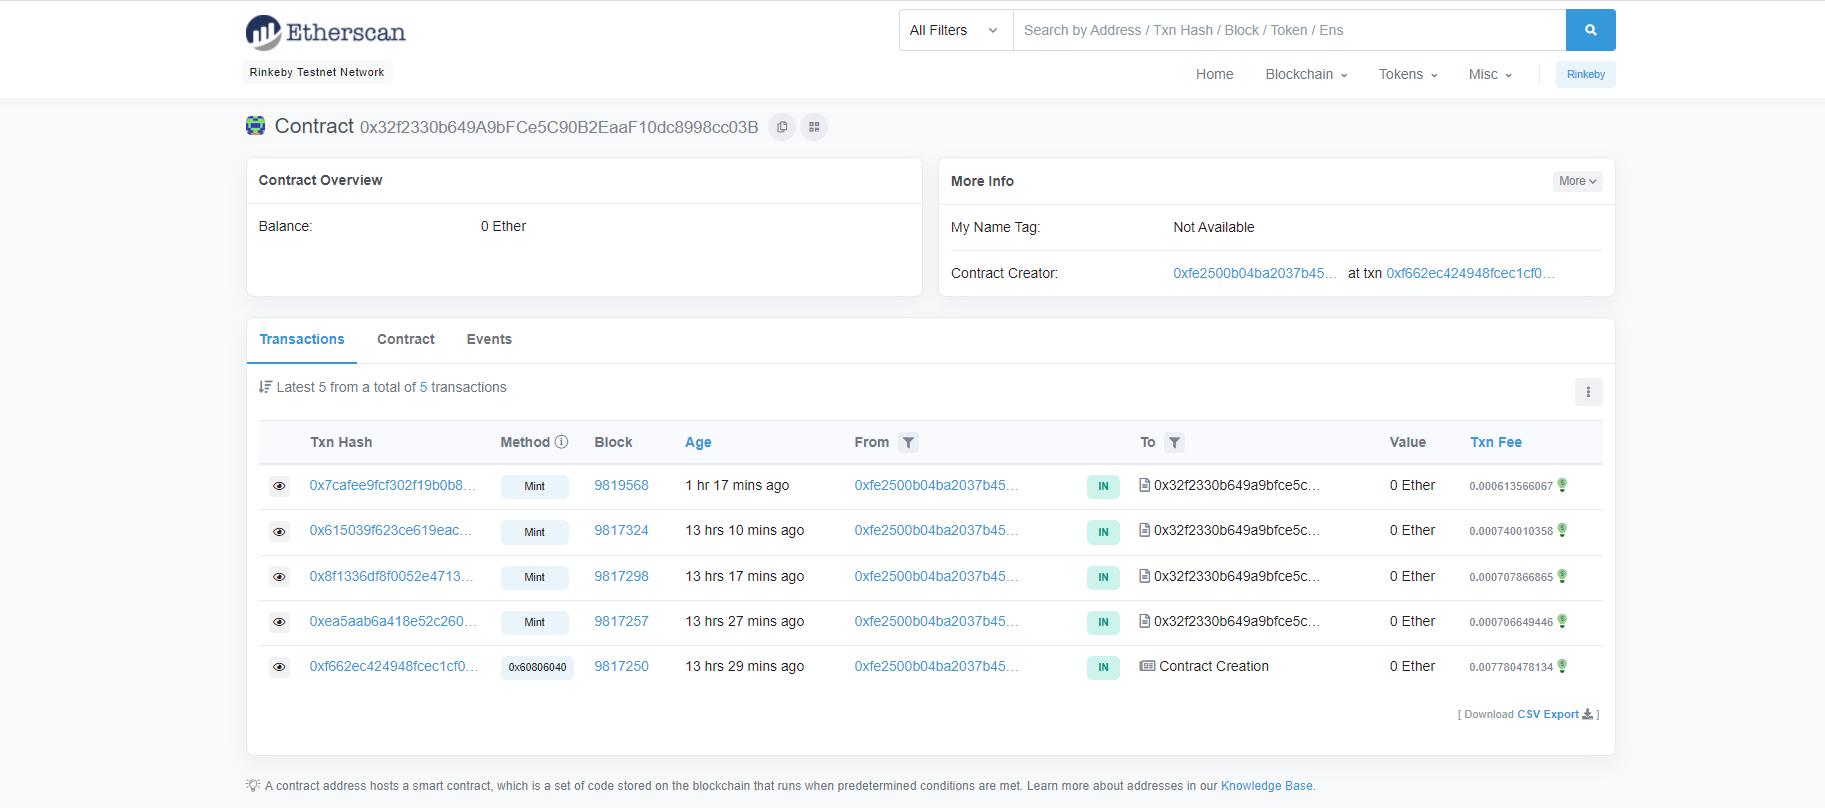
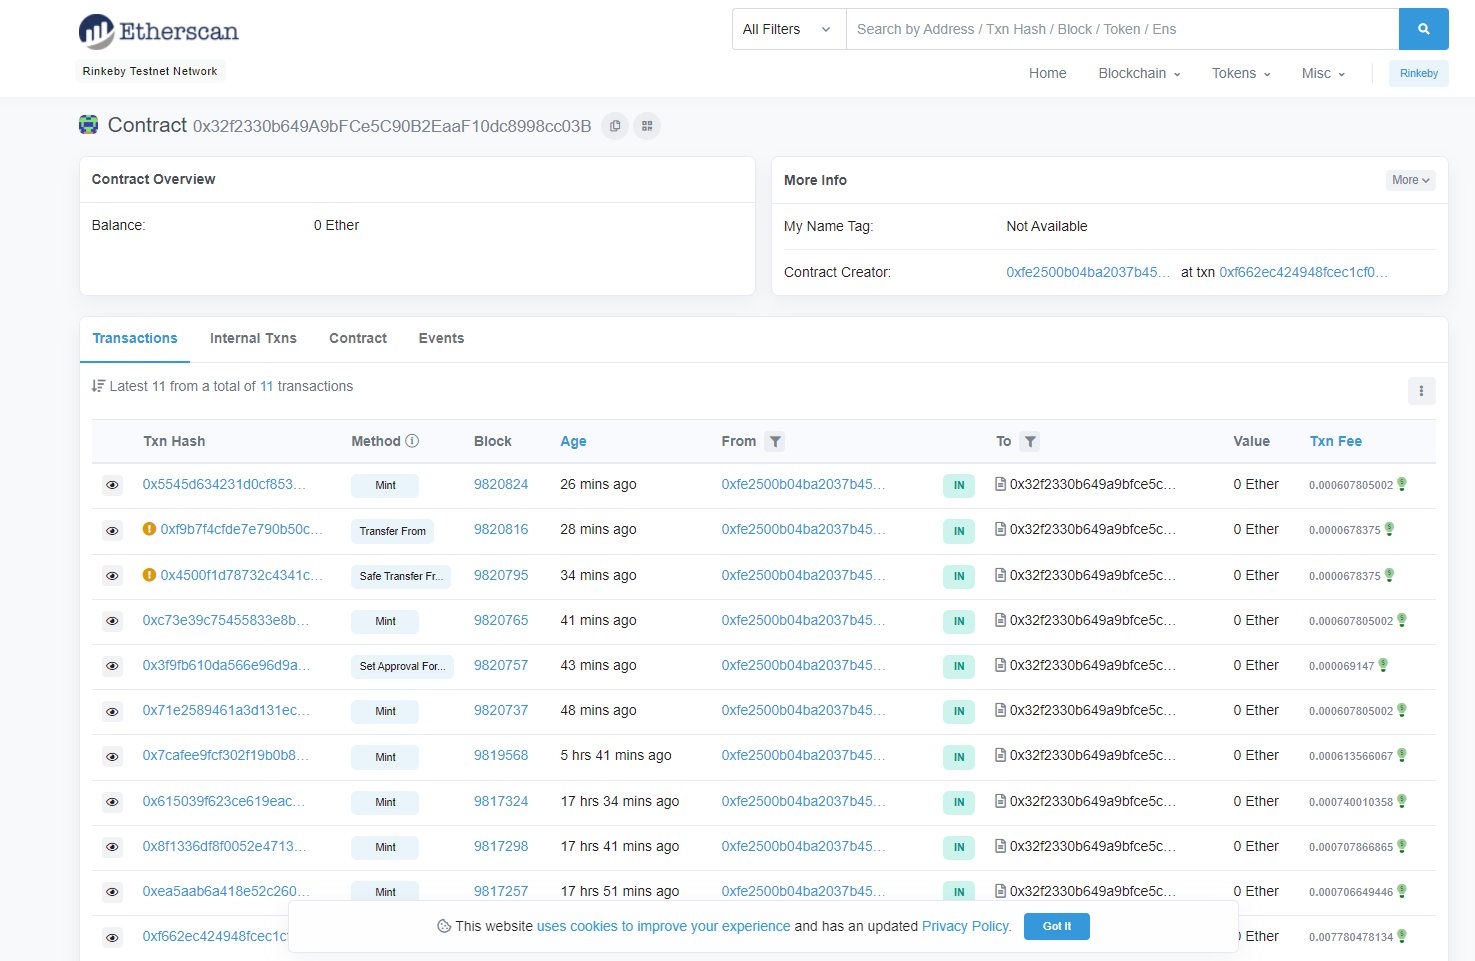
Updated the ReadMe. Added new images; updated the package.json

diff --git a/README.md b/README.md
@@ -153,7 +153,7 @@ Under the Mint function option, enter the your account address and a token id (f
 
 ![remix](images/Remix_4.PNG)
 
-Here is what it looks like in Etherscan. You can see that 4 tokens have been minted:
+Here is what it looks like in Etherscan. You can see that more than 5 tokens have been minted (under multiple owners):
 
 ![etherscan](images/Etherscan_2.PNG)
 
@@ -169,9 +169,25 @@ Once an account has been created on OpenSea, then the easiest way to assign toke
 https://testnets.opensea.io/assets/0x32f2330b649a9bfce5c90b2eaaf10dc8998cc03b/5
 ```
 
-The first part of the URL includes the Rinkeby contract address. The second part includes the token id. Below is a screenshot of a couple of tokenized images:
+The first part of the URL includes the Rinkeby contract address. The second part includes the token id. Below is a screenshot of the tokenized images in Opensea:
 
 ![opensea](images/Opensea_3.PNG)
+
+I sold 4 of the tokenized images to one test account (0xe77f929f093415d2d7221ec961394e8b33ddb066):
+
+![opensea](images/Opensea_4.PNG)
+
+Below is the Etherscan list of the 4 tokenized images transferred to this account (0xe77f929f093415d2d7221ec961394e8b33ddb066):
+
+![etherscan](images/Ethersan_3.PNG)
+
+I sold 1 more of the tokenized images to another test account (0xae3caf0d5463a719b478af997ac21a6f04d0499a):
+
+![opensea](images/Opensea_5.PNG)
+
+Below is the Etherscan list of the 1 tokenized image transferred to this account (0xae3caf0d5463a719b478af997ac21a6f04d0499a):
+
+![etherscan](images/Ethersan_4.PNG)
 
 ## Other Information
 
